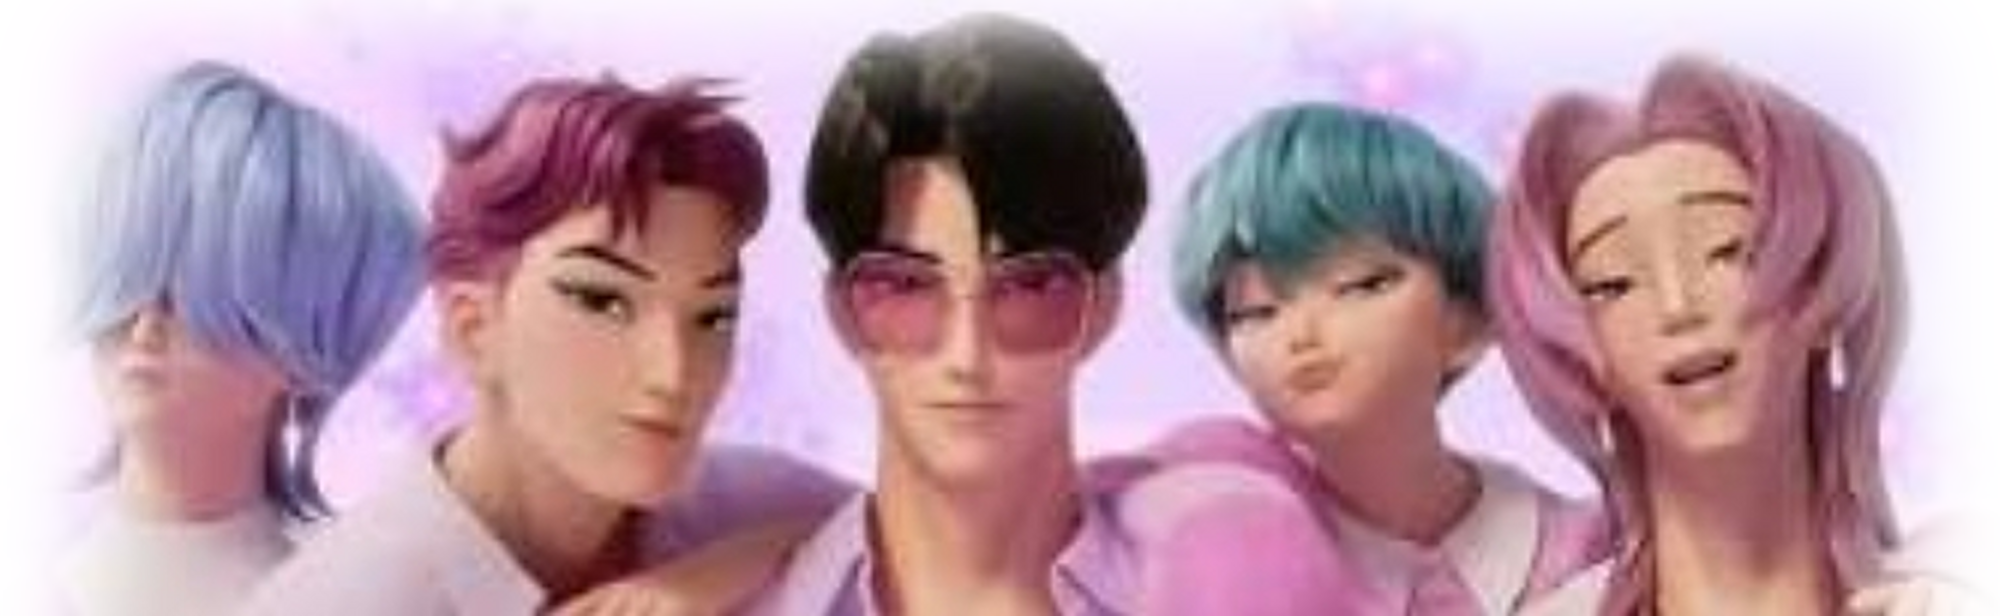
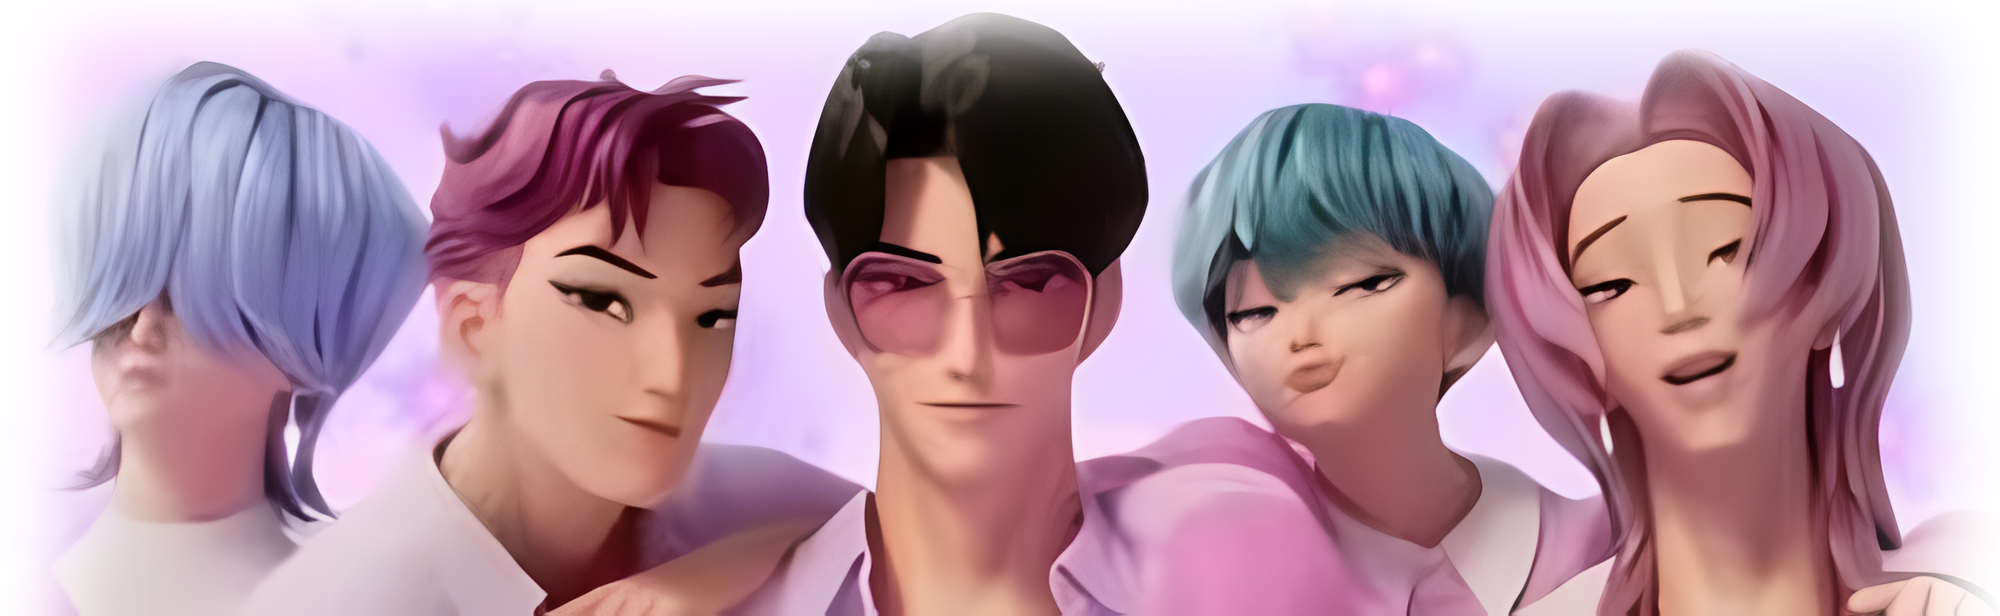
Pozivnica (Anastasija): likovi uvećani Real-ESRGAN modelom
Isečci sa uzorka su provučeni kroz Real-ESRGAN (x4plus + anime_6B,
spojeno 65/35) umesto običnog Lanczos uvećanja, pa su likovi oštri i bez
JPEG artefakata. Dodata skripta esrgan.py (RRDBNet, radi na procesoru).

Claude-Session: https://claude.ai/code/session_01WPsLspqn5fgTDtsMpxXm4s

diff --git a/pozivnice/anastasija/esrgan.py b/pozivnice/anastasija/esrgan.py
@@ -1,0 +1,105 @@
+# Real-ESRGAN 4x uvećanje slike na procesoru (bez GPU). Korišćeno za slika-gore.png i slika-dole.png.
+# Priprema:  pip install torch --index-url https://download.pytorch.org/whl/cpu && pip install pillow numpy
+# Modeli:    https://github.com/xinntao/Real-ESRGAN/releases  (RealESRGAN_x4plus.pth -> 23 bloka, RealESRGAN_x4plus_anime_6B.pth -> 6 blokova)
+# Pokretanje: python esrgan.py RealESRGAN_x4plus.pth 23 ulaz.png izlaz.png
+"""Real-ESRGAN (RRDBNet) 4x upscaler, CPU only. Usage: esrgan.py MODEL.pth NUM_BLOCKS in.png out.png [tile]"""
+import sys, time
+import numpy as np
+import torch, torch.nn as nn, torch.nn.functional as F
+from PIL import Image
+
+torch.set_num_threads(4)
+
+
+class ResidualDenseBlock(nn.Module):
+    def __init__(self, nf=64, gc=32):
+        super().__init__()
+        self.conv1 = nn.Conv2d(nf, gc, 3, 1, 1)
+        self.conv2 = nn.Conv2d(nf + gc, gc, 3, 1, 1)
+        self.conv3 = nn.Conv2d(nf + 2 * gc, gc, 3, 1, 1)
+        self.conv4 = nn.Conv2d(nf + 3 * gc, gc, 3, 1, 1)
+        self.conv5 = nn.Conv2d(nf + 4 * gc, nf, 3, 1, 1)
+        self.lrelu = nn.LeakyReLU(0.2, True)
+
+    def forward(self, x):
+        x1 = self.lrelu(self.conv1(x))
+        x2 = self.lrelu(self.conv2(torch.cat((x, x1), 1)))
+        x3 = self.lrelu(self.conv3(torch.cat((x, x1, x2), 1)))
+        x4 = self.lrelu(self.conv4(torch.cat((x, x1, x2, x3), 1)))
+        x5 = self.conv5(torch.cat((x, x1, x2, x3, x4), 1))
+        return x5 * 0.2 + x
+
+
+class RRDB(nn.Module):
+    def __init__(self, nf, gc=32):
+        super().__init__()
+        self.rdb1 = ResidualDenseBlock(nf, gc)
+        self.rdb2 = ResidualDenseBlock(nf, gc)
+        self.rdb3 = ResidualDenseBlock(nf, gc)
+
+    def forward(self, x):
+        out = self.rdb3(self.rdb2(self.rdb1(x)))
+        return out * 0.2 + x
+
+
+class RRDBNet(nn.Module):
+    def __init__(self, in_ch=3, out_ch=3, nf=64, nb=23, gc=32):
+        super().__init__()
+        self.conv_first = nn.Conv2d(in_ch, nf, 3, 1, 1)
+        self.body = nn.Sequential(*[RRDB(nf, gc) for _ in range(nb)])
+        self.conv_body = nn.Conv2d(nf, nf, 3, 1, 1)
+        self.conv_up1 = nn.Conv2d(nf, nf, 3, 1, 1)
+        self.conv_up2 = nn.Conv2d(nf, nf, 3, 1, 1)
+        self.conv_hr = nn.Conv2d(nf, nf, 3, 1, 1)
+        self.conv_last = nn.Conv2d(nf, out_ch, 3, 1, 1)
+        self.lrelu = nn.LeakyReLU(0.2, True)
+
+    def forward(self, x):
+        feat = self.conv_first(x)
+        feat = feat + self.conv_body(self.body(feat))
+        feat = self.lrelu(self.conv_up1(F.interpolate(feat, scale_factor=2, mode='nearest')))
+        feat = self.lrelu(self.conv_up2(F.interpolate(feat, scale_factor=2, mode='nearest')))
+        return self.conv_last(self.lrelu(self.conv_hr(feat)))
+
+
+def load(path, nb):
+    net = RRDBNet(nb=nb)
+    sd = torch.load(path, map_location='cpu', weights_only=True)
+    sd = sd.get('params_ema', sd.get('params', sd))
+    net.load_state_dict(sd, strict=True)
+    return net.eval()
+
+
+def run_tiled(net, x, tile, overlap=16):
+    _, _, h, w = x.shape
+    out = torch.zeros(1, 3, h * 4, w * 4)
+    for y0 in range(0, h, tile):
+        for x0 in range(0, w, tile):
+            y1, x1 = min(y0 + tile, h), min(x0 + tile, w)
+            py0, px0 = max(y0 - overlap, 0), max(x0 - overlap, 0)
+            py1, px1 = min(y1 + overlap, h), min(x1 + overlap, w)
+            t = net(x[:, :, py0:py1, px0:px1])
+            oy, ox = (y0 - py0) * 4, (x0 - px0) * 4
+            out[:, :, y0 * 4:y1 * 4, x0 * 4:x1 * 4] = t[:, :, oy:oy + (y1 - y0) * 4, ox:ox + (x1 - x0) * 4]
+    return out
+
+
+def upscale(net, img, pad=10, tile=0):
+    x = torch.from_numpy(np.asarray(img.convert('RGB'))).permute(2, 0, 1).float().unsqueeze(0) / 255.0
+    x = F.pad(x, (pad, pad, pad, pad), mode='reflect')
+    with torch.no_grad():
+        y = net(x) if tile == 0 else run_tiled(net, x, tile)
+    y = y[:, :, pad * 4:y.shape[2] - pad * 4, pad * 4:y.shape[3] - pad * 4]
+    arr = (y.squeeze(0).permute(1, 2, 0).clamp(0, 1).numpy() * 255).round().astype(np.uint8)
+    return Image.fromarray(arr)
+
+
+if __name__ == '__main__':
+    model, nb, src, dst = sys.argv[1], int(sys.argv[2]), sys.argv[3], sys.argv[4]
+    tile = int(sys.argv[5]) if len(sys.argv) > 5 else 0
+    t = time.time()
+    net = load(model, nb)
+    img = Image.open(src)
+    out = upscale(net, img, tile=tile)
+    out.save(dst)
+    print(f'{src} {img.size} -> {dst} {out.size} za {time.time() - t:.0f}s')
